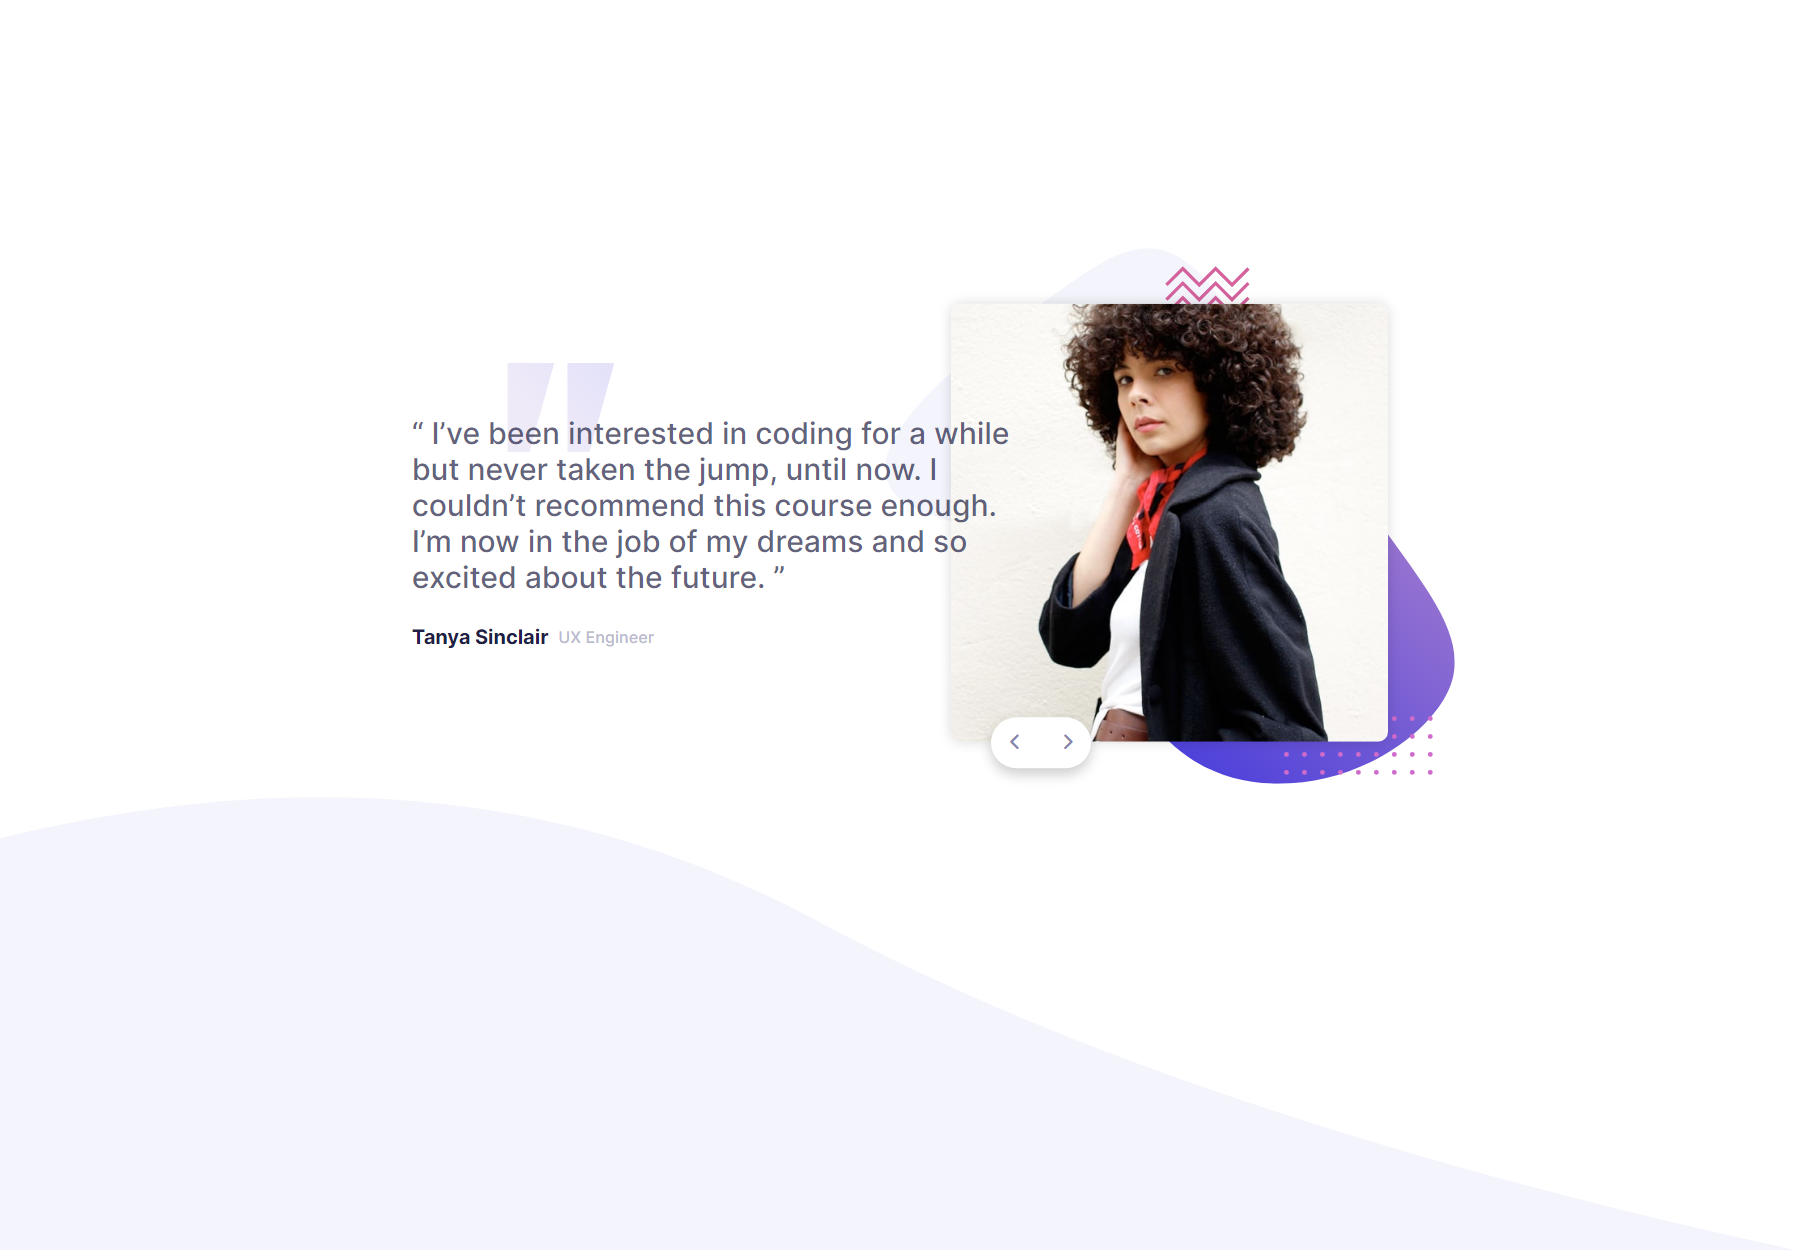
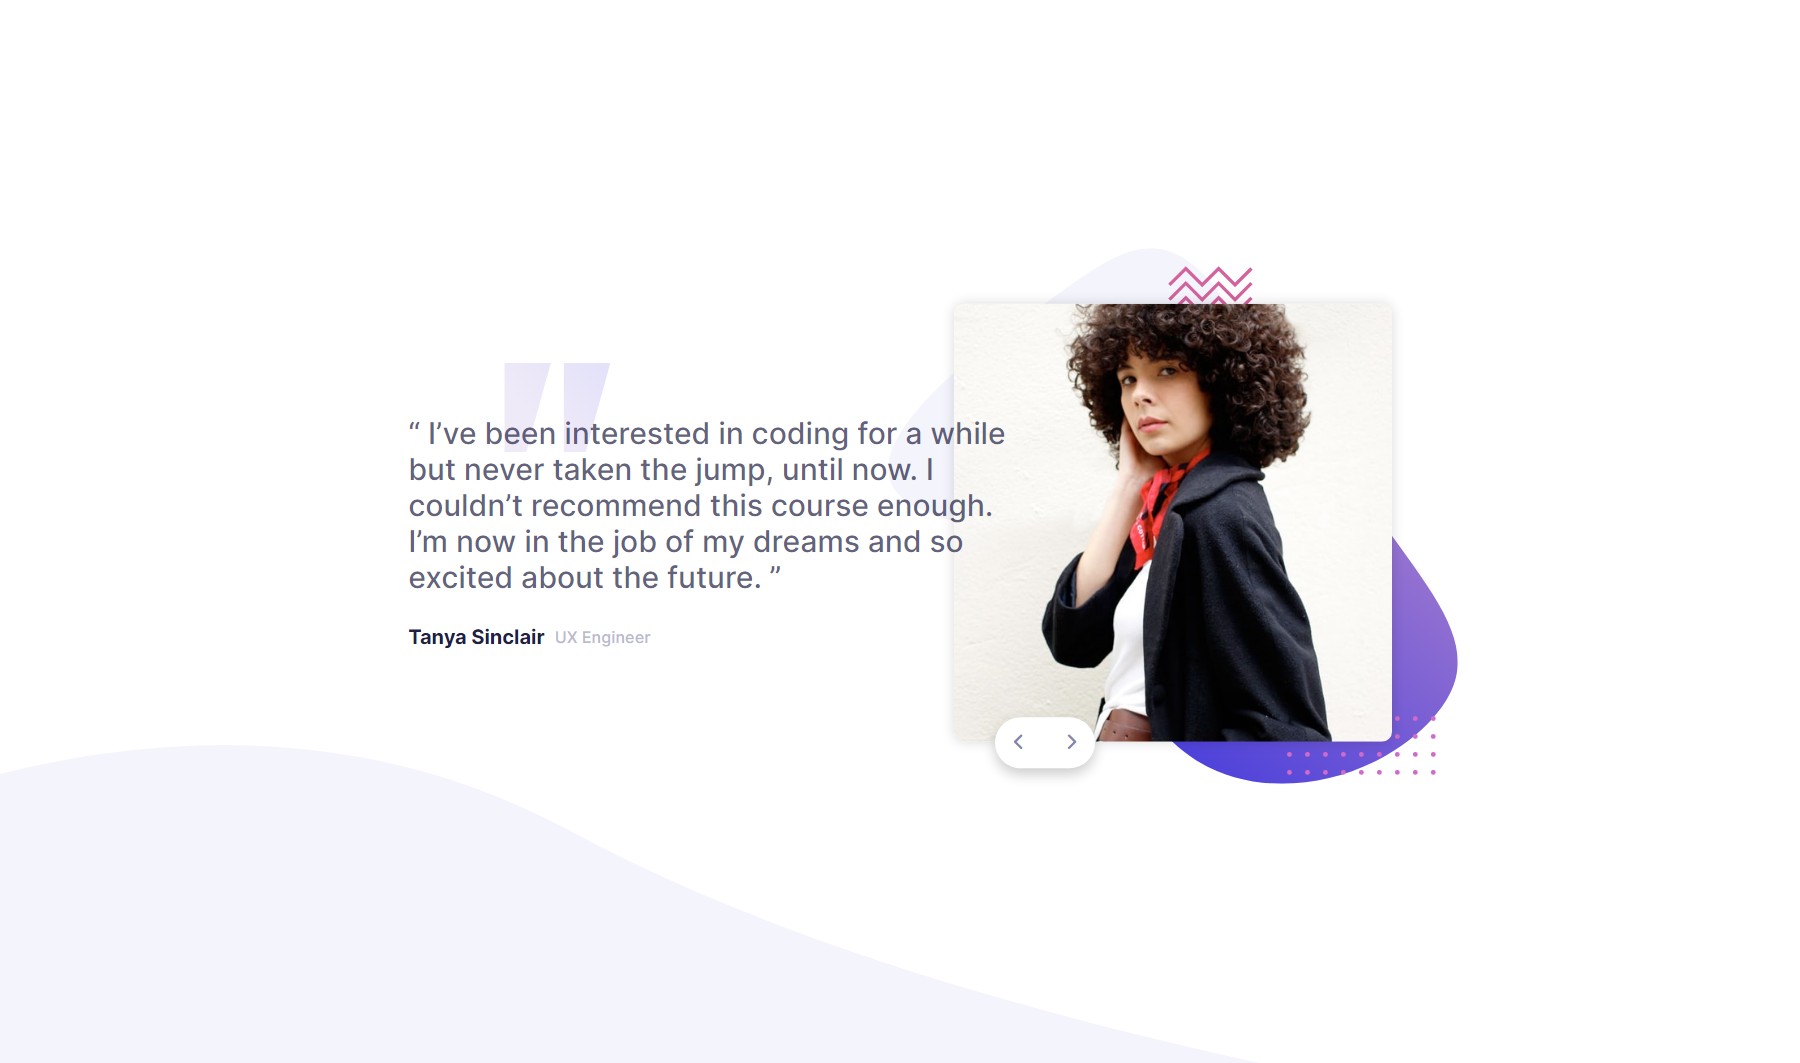
commit

Changed region(s): [[0.2178, 0.2173, 0.8089, 0.7451], [0.2178, 0.5898, 0.3733, 0.6209], [0.56, 0.714, 0.5911, 0.7451]]

diff --git a/css/style.css b/css/style.css
@@ -21,14 +21,19 @@ body {
           justify-content: center;
   background-image: url("../images/pattern-curve.svg");
   background-repeat: no-repeat;
-  background-position: bottom;
-  background-size: 100%;
+  background-position: bottom left;
+  background-size: 80%;
 }
 
 @media screen and (min-width: 968px) {
   body {
-    margin-bottom: 9.375rem;
-    overflow-y: hidden;
+    background-size: 50%;
+  }
+}
+
+@media screen and (min-width: 1400px) {
+  body {
+    background-size: 70%;
   }
 }
 
@@ -83,7 +88,7 @@ img {
 
 @media screen and (min-width: 968px) {
   .testimonials__images {
-    margin-left: -10%;
+    margin-left: -8.4375rem;
   }
 }
 

diff --git a/scss/style.scss b/scss/style.scss
@@ -16,12 +16,14 @@ body{
   justify-content: center;
   background-image: url("../images/pattern-curve.svg");
   background-repeat: no-repeat;
-  background-position: bottom;
-  background-size: 100%;
+  background-position: bottom left;
+  background-size: 80%;
 
   @include lg-min{
-    margin-bottom: rem(150);
-    overflow-y: hidden;
+    background-size: 50%;
+  }
+  @include xl-min{
+    background-size: 70%;
   }
 }
 img{
@@ -53,7 +55,7 @@ img{
     position: relative;
     
     @include lg-min{
-      margin-left: -10%;
+      margin-left: rem(-135);
     }
   }
   &__avatar{

diff --git a/scss/_mixins.scss b/scss/_mixins.scss
@@ -3,3 +3,9 @@
     @content;
   }
 }
+
+@mixin xl-min {
+  @media screen and (min-width: $screen-xl-min){
+    @content;
+  }
+}

diff --git a/scss/_config.scss b/scss/_config.scss
@@ -8,3 +8,4 @@ $button: #8585AC;
 
 // media queries
 $screen-lg-min: 968px;
+$screen-xl-min: 1400px;

diff --git a/README.md b/README.md
@@ -32,7 +32,7 @@ Users should be able to:
 ### Links
 
 - Solution URL: [Add solution URL here](https://your-solution-url.com)
-- Live Site URL: [Add live site URL here](https://your-live-site-url.com)
+- Live Site URL: https://pyaethein.github.io/Coding-Bootcamp-Testimonials-Slider/
 
 ## My process
 
